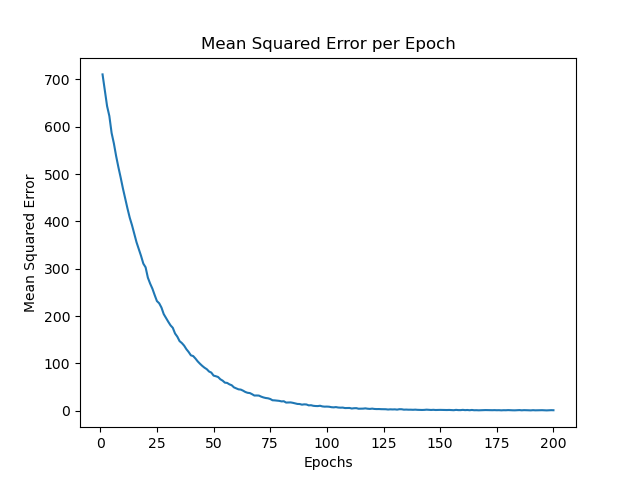
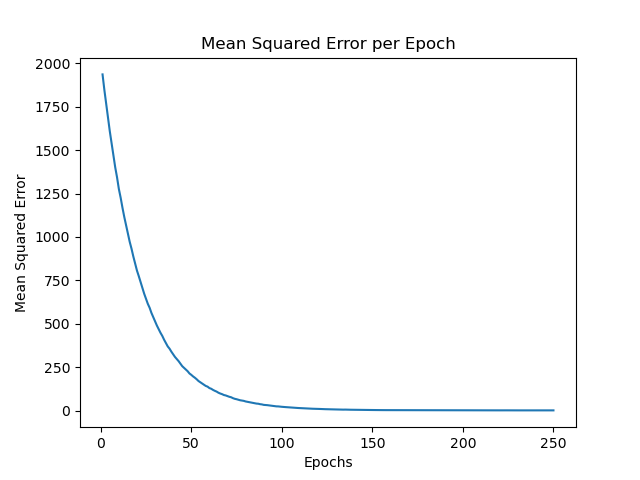
pass in noise, epochs, and learning rate

diff --git a/assignment4/polynomial_regression.py b/assignment4/polynomial_regression.py
@@ -1,7 +1,6 @@
 from math import exp
 import math
 import os
-from ucimlrepo import fetch_ucirepo 
 import pandas as pd
 from sklearn.model_selection import train_test_split
 import numpy as np
@@ -25,13 +24,26 @@ def main():
     features = ['base', 'X1', 'X2']
     X = X[features]
     
-    noise = 1
+    noise = 0.5
+    epochs = 250
+    learning_rate = 0.001
 
     # Perform polynomial regression
     # weights = polynomial_regression_matrix(X, Y, features)
-    weights = polynomial_regression_iterative(X, Y, features, noise)
+    weights = polynomial_regression_iterative(X, Y, features, noise, epochs, learning_rate)
 
     Y_pred = evaluate_all_with_noise(weights, X, noise)
+
+    polynomial = f"{weights[0]:.2f} + {weights[1]:.2f}x + {weights[2]:.2f}x^2"
+
+    pred_error = get_error(Y_pred, Y)
+    print(f"----------------------\n"
+          f"Noise: {noise}\n"
+          f"Epochs: {epochs}\n"
+          f"Learning Rate: {learning_rate}\n"
+          f"Polynomial: {polynomial}\n"
+          f"Prediction Error (MSE): {pred_error:.6f}\n"
+          f"----------------------\n")
 
     # Plot results
     plot_polynomial_regression_line(X, Y, Y_pred)
@@ -52,13 +64,13 @@ def polynomial_regression_matrix(A :pd.DataFrame, Y :pd.DataFrame, features :[])
     print(B_hat)
 
 # Polynomial Regression Function
-def polynomial_regression_iterative(X :pd.DataFrame, Y :pd.DataFrame, features :[], noise :float) -> []:
+def polynomial_regression_iterative(X :pd.DataFrame, Y :pd.DataFrame, features :[], noise :float, epochs :int, learning_rate :float) -> []:
     # Initialize bias randomly
     weights = [random.uniform(0.0, 10.0) for x in range(len(features))]
     # weights = [0 for x in range(len(features))]
 
-    learning_rate = 0.001
-    epochs = 200
+    # learning_rate = 0.001
+    # epochs = 200
     noise_parameter = noise
 
     errors = []
@@ -144,8 +156,8 @@ def plot_error(errors :[], epochs :int) -> None:
     plt.xlabel('Epochs')
     plt.ylabel('Mean Squared Error')
     plt.title('Mean Squared Error per Epoch')
-    # plt.savefig('assignment3/plots/training_error.png')
-    plt.savefig(os.path.join('assignment4/plots', "training_error.png"))
+    # plt.savefig(os.path.join('assignment4', 'plots', "training_error.png"))
+    plt.savefig(os.path.join('plots', "training_error.png"))
     plt.show()
 
 
@@ -155,7 +167,8 @@ def plot_polynomial_regression_scatter(X :pd.DataFrame, y :pd.DataFrame, y_pred 
     plt.xlabel('Height')
     plt.ylabel('Weight')
     plt.title('Polynomial Regression of Height vs. Weight')
-    plt.savefig(os.path.join('assignment4/plots', "poly_regression_scatter.png"))
+    # plt.savefig(os.path.join('assignment4/plots', "poly_regression_scatter.png"))
+    plt.savefig(os.path.join('plots', "poly_regression_scatter.png"))
     plt.show()
 
 
@@ -165,7 +178,8 @@ def plot_polynomial_regression_line(X :pd.DataFrame, y :pd.DataFrame, y_pred :pd
     plt.xlabel('Height')
     plt.ylabel('Weight')
     plt.title('Polynomial Regression of Height vs. Weight')
-    plt.savefig(os.path.join('assignment4/plots', "poly_regression_line.png"))
+    # plt.savefig(os.path.join('assignment4/plots', "poly_regression_line.png"))
+    plt.savefig(os.path.join('plots', "poly_regression_line.png"))
     plt.show()
 
 if __name__ == "__main__":
